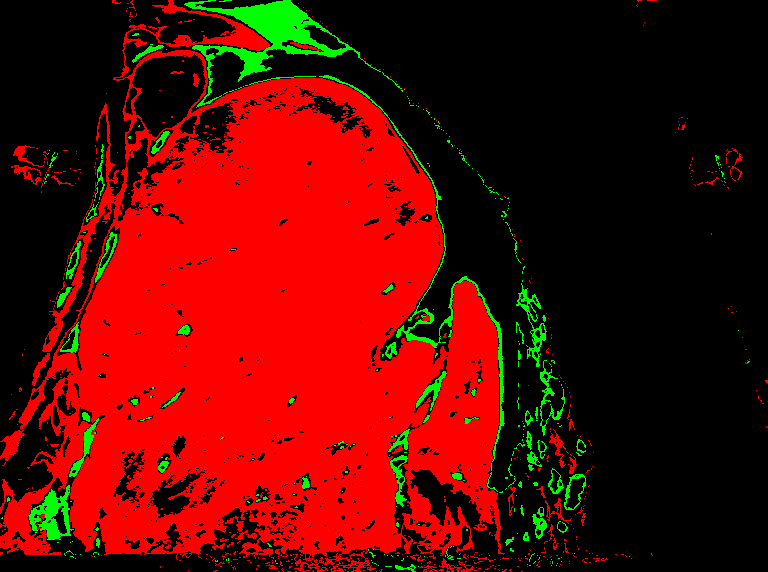
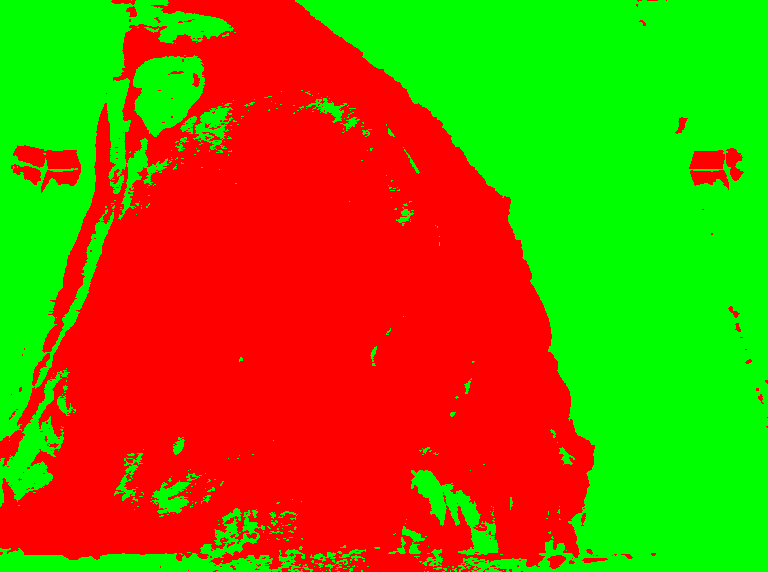
msg

diff --git a/process_image.py b/process_image.py
@@ -1,35 +1,63 @@
 from PIL import Image
+import numpy as np
+from sklearn.cluster import KMeans
+from scipy.spatial import KDTree
+
 from tif_to_png import tif_to_png_converter
 
 def create_image_two(image_path):
-    # Open the input image
+    # Open the input image and convert it to a NumPy array
     img = Image.open(image_path)
+    img_array = np.array(img.convert('RGB'))
     
-    # Create a blank image of the same size
-    img_three = Image.new("RGB", img.size)
+    # Perform KMeans clustering to identify the largest grouping of red meat pixels
+    kmeans = KMeans(n_clusters=2, random_state=0).fit(img_array.reshape(-1, 3))
+    labels = kmeans.labels_
     
-    # Load pixel data
-    pixels = img.load()
-    pixels_three = img_three.load()
+    # Reshape labels to match the original shape of img_array
+    labels_reshaped = labels.reshape(img_array.shape[:2])
     
-    # Thresholds for color categories
-    red_threshold = 100 # Adjust this threshold as needed for meat
-    fat_threshold = 150 # Adjust this threshold as needed for intermuscular fat
+    # Use the reshaped labels to create a boolean mask for red meat pixels
+    red_meat_mask = labels_reshaped == 0
     
-    # Iterate through each pixel
-    for i in range(img.size[0]): # Width
-        for j in range(img.size[1]): # Height
-            # Get the RGB values of the pixel
-            r, g, b = pixels[i, j]
-            
-            # If the pixel is similar to red, set it to red
-            if r > red_threshold and g < red_threshold and b < red_threshold:
-                pixels_three[i, j] = (255, 0, 0)
-            # If the pixel is similar to fat, set it to green (intermuscular fat)
-            elif r > fat_threshold and g < fat_threshold and b < fat_threshold:
-                pixels_three[i, j] = (0, 255, 0)
-            else: # else the pixel is background, set it to black
-                pixels_three[i, j] = (0, 0, 0)
+    # Use the mask to select red meat pixels
+    red_meat_pixels = img_array[red_meat_mask]
+    
+    # Convert red_meat_pixels to a 2D array of shape (n, 3) where n is the number of red meat pixels
+    red_meat_pixels_2d = red_meat_pixels.reshape(-1, 3)
+
+    # Build a KDTree from the red meat pixels
+    tree = KDTree(red_meat_pixels_2d)
+
+    # Calculate the distance to the nearest red meat pixel for each pixel in img_array
+    distances, _ = tree.query(img_array.reshape(-1, 3))
+    distances = distances.reshape(img_array.shape[:2])
+    
+    # Calculate the optimal threshold dynamically based on the distribution of distances
+    # For example, you might choose the 90th percentile as the threshold
+    threshold = np.percentile(distances, 90)
+    
+    # Create a mask for pixels close to the red meat area using the dynamic threshold
+    close_to_red_meat_mask = distances < threshold
+    
+    # Create a mask for white pixels
+    white_pixels_mask = np.all(img_array < 100, axis=-1)
+    
+    # Combine the masks to identify intermuscular fat pixels
+    intermuscular_fat_mask = white_pixels_mask & close_to_red_meat_mask
+    
+    # Apply the masks to categorize pixels
+    img_array[intermuscular_fat_mask] = [0, 255, 0] # Green for intermuscular fat
+    img_array[~intermuscular_fat_mask & white_pixels_mask] = [0, 0, 0] # Black for background
+    img_array[~intermuscular_fat_mask & ~white_pixels_mask] = [255, 0, 0] # Red for red meat
+    
+    # Color the background black [remember, the dimensions are 768x572]
+    img_array[1, 0] = [0, 0, 0]
+    img_array[767, 0] = [0, 0, 0]
+    #TODO: spread out from there(infect the other cells)
+
+    # Convert the processed array back to an image
+    img_three = Image.fromarray(img_array)
     
     # Save the resulting image
     img_three.save("image_three.png")
